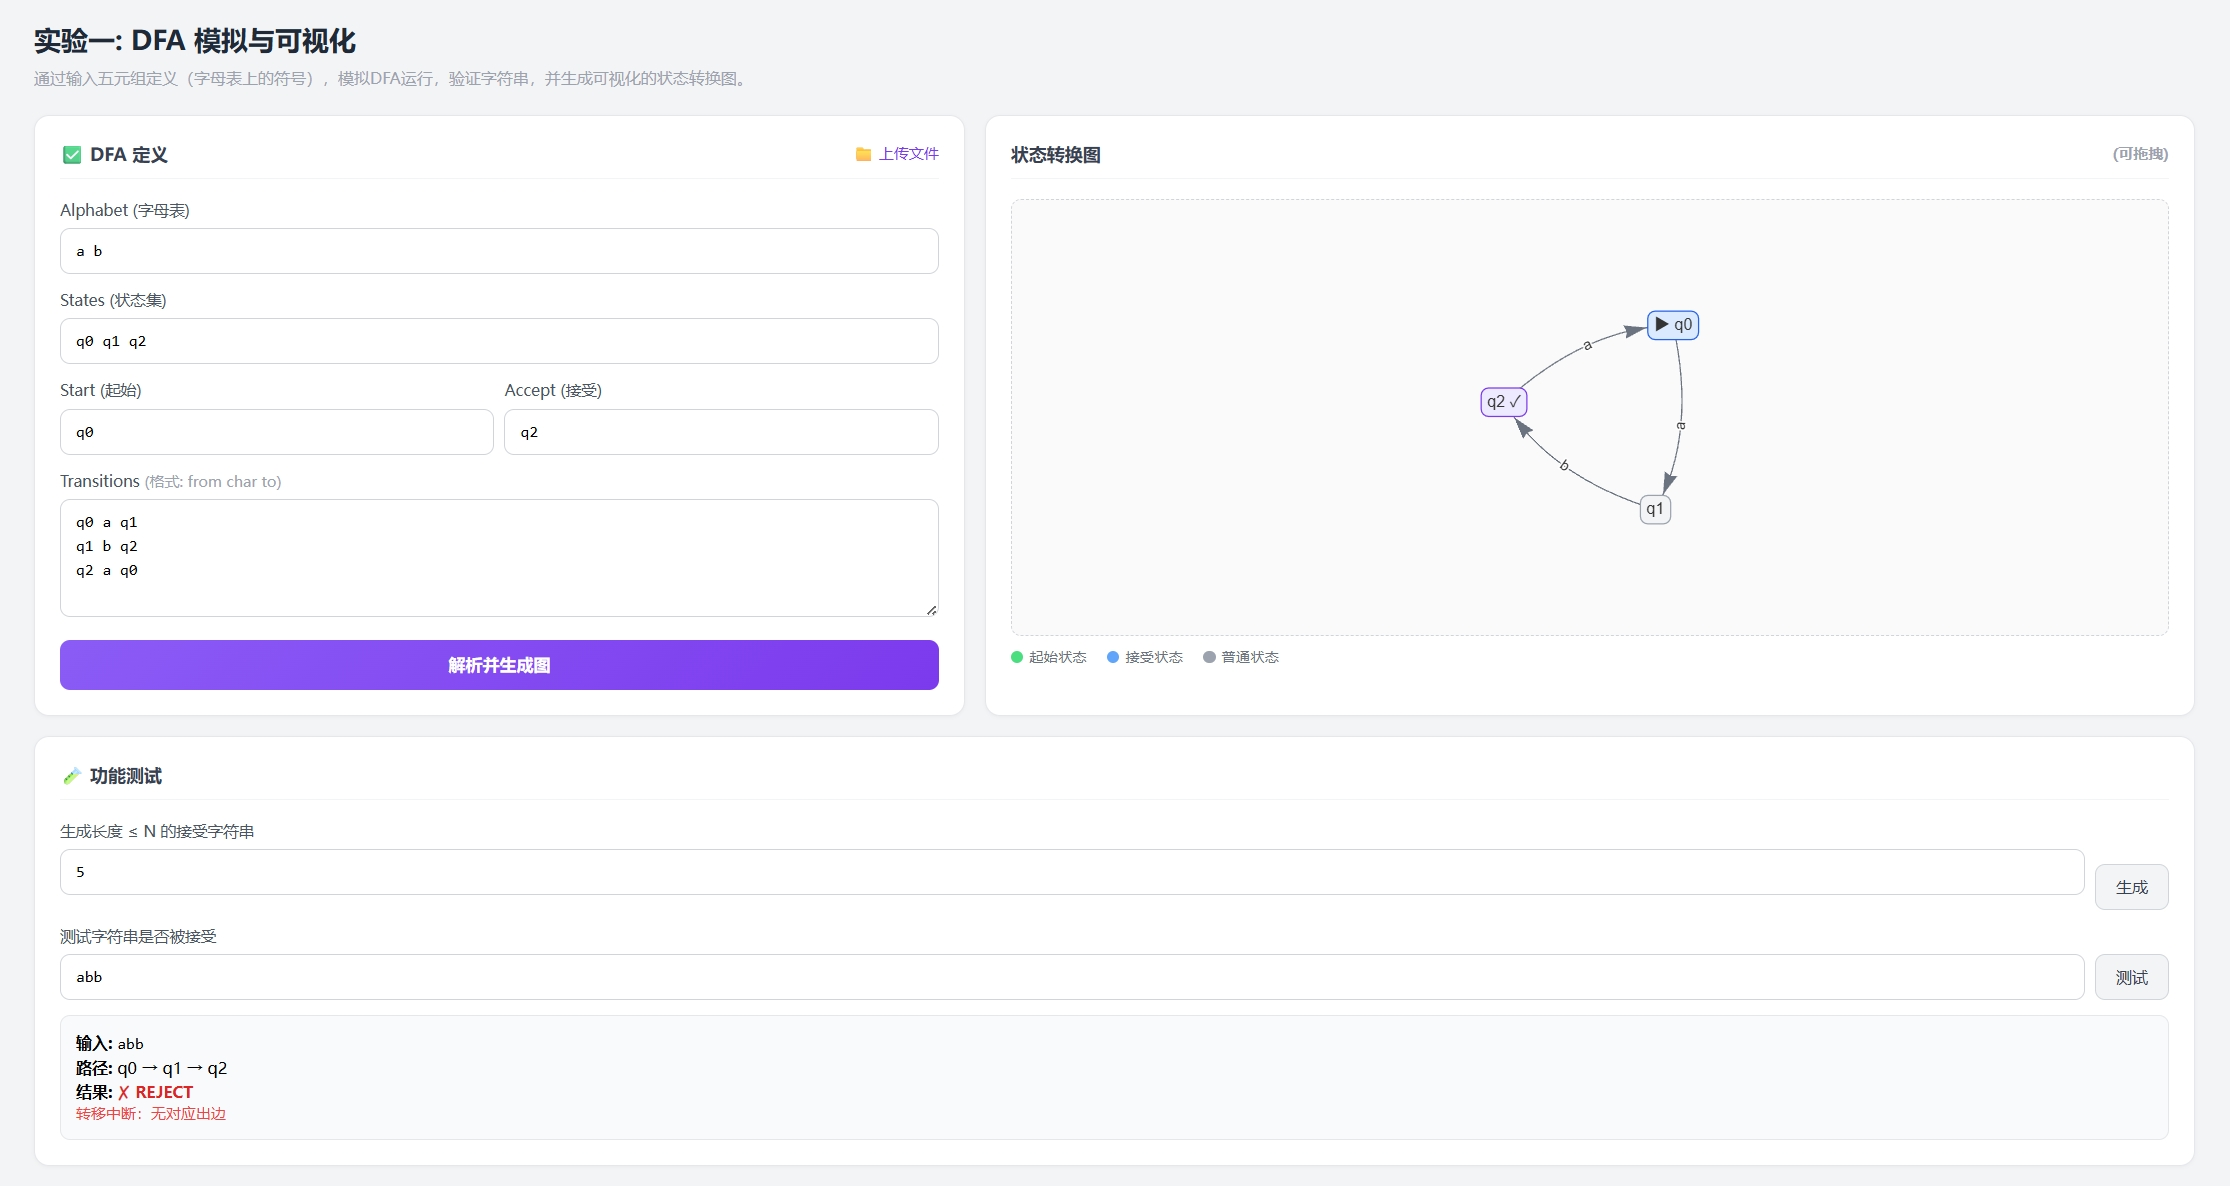
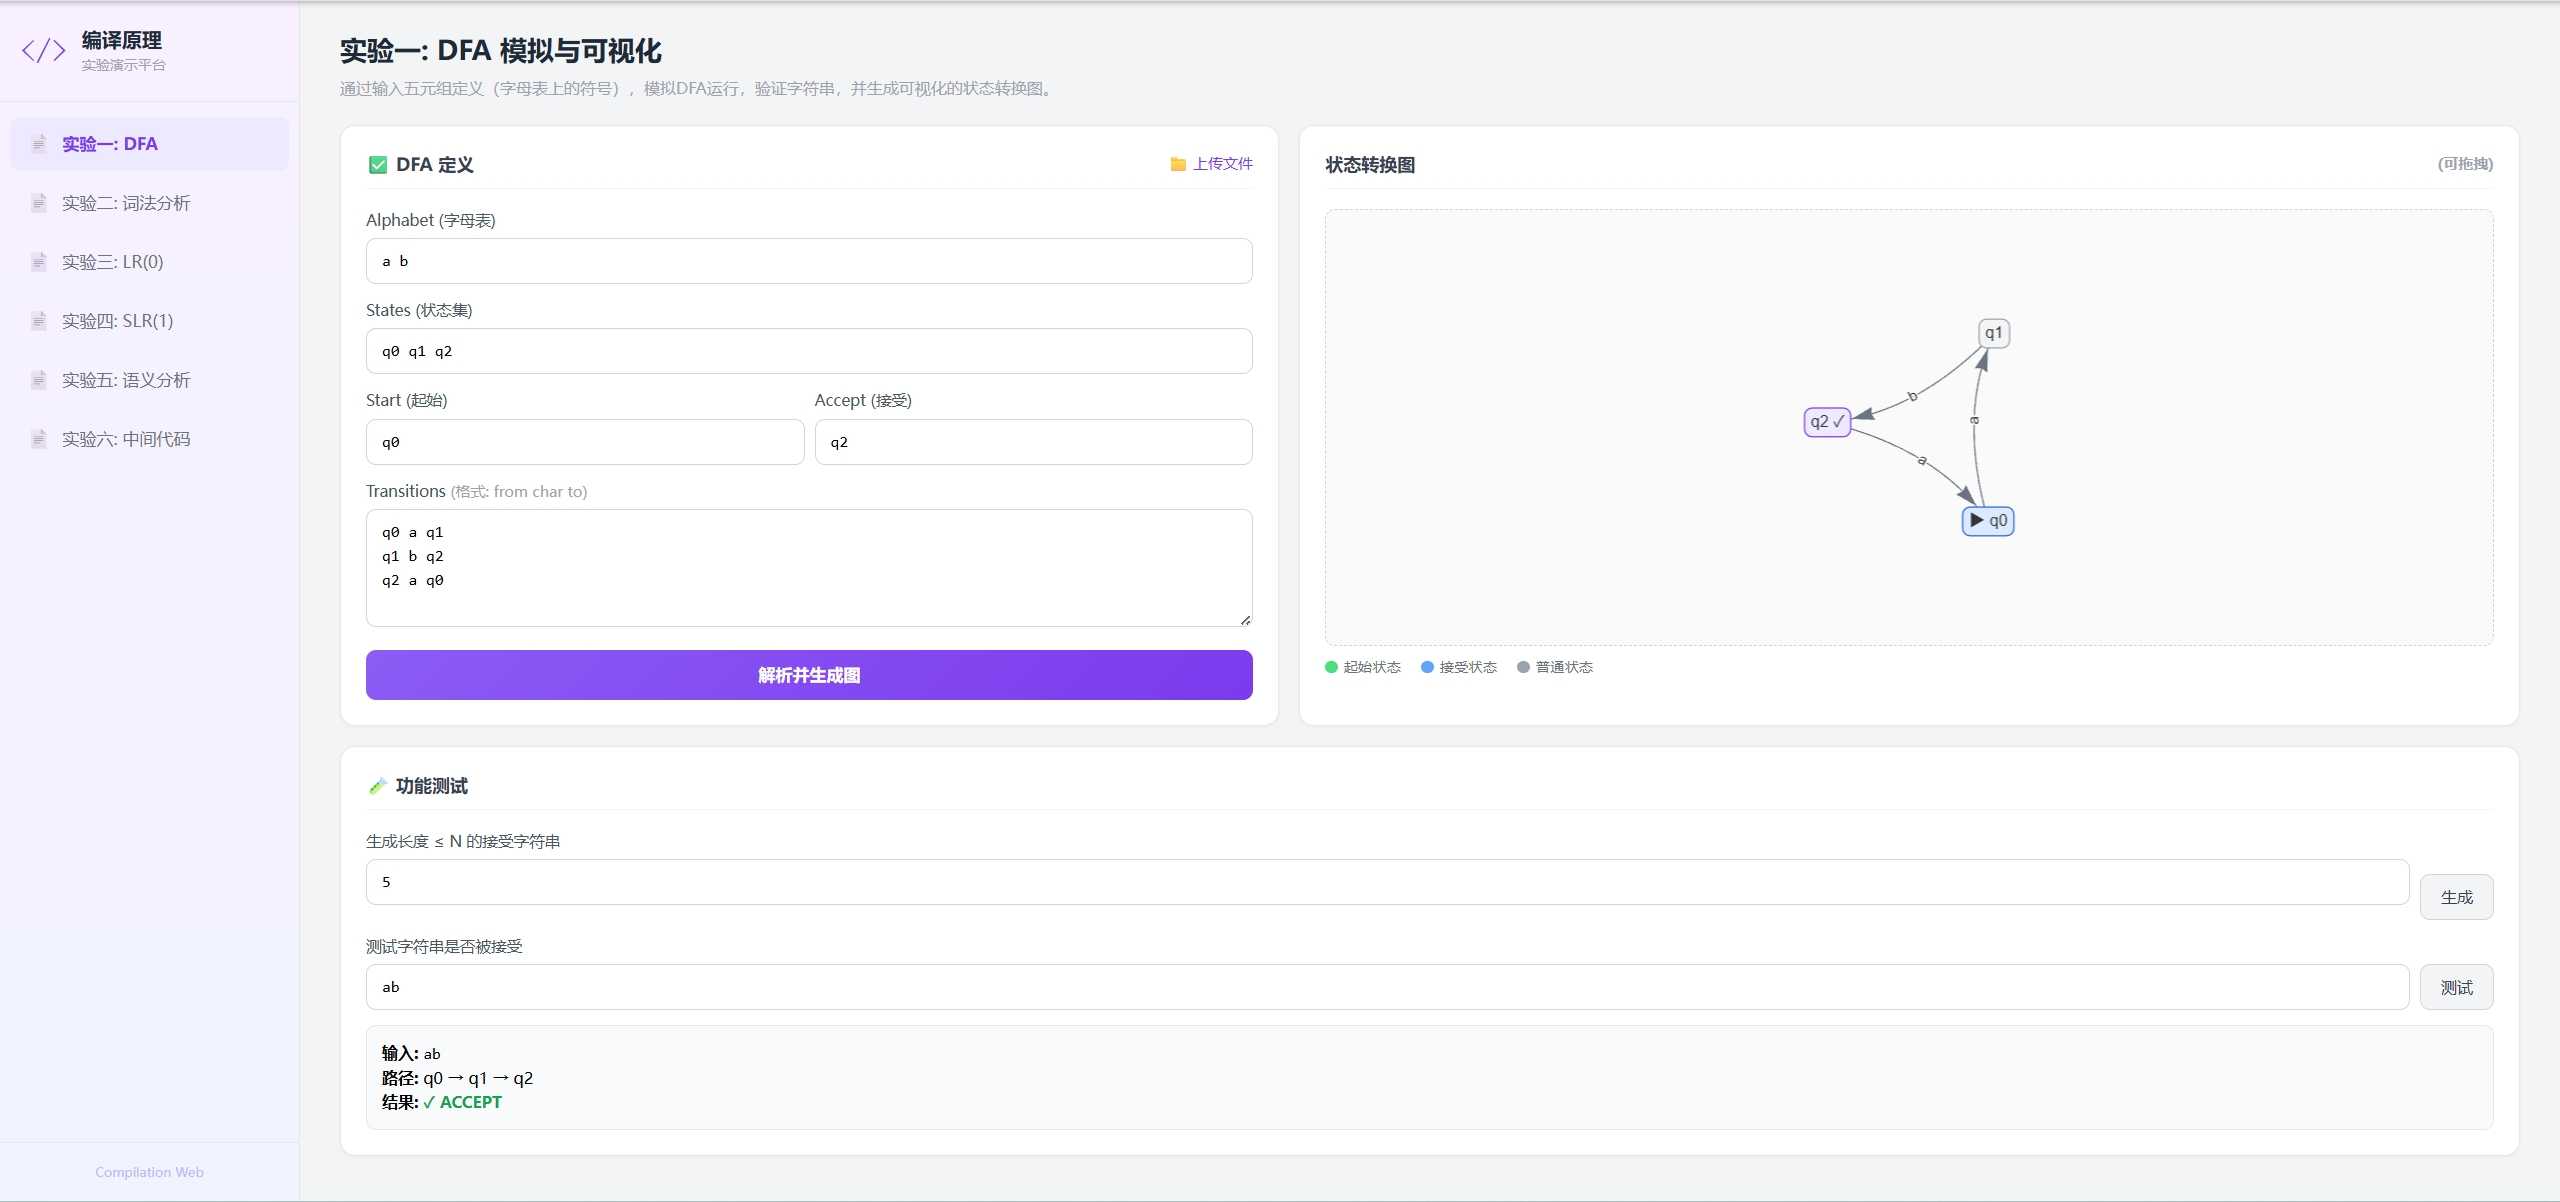
fix: 修复3个逻辑bug(DFA空字符串/Scanner统计/语义符号表)

diff --git a/compilation-web/js/scanner.js b/compilation-web/js/scanner.js
@@ -177,10 +177,11 @@ function renderScanner() {
 
     // 统计信息
     const stats = { keywords: 0, identifiers: 0, numbers: 0, operators: 0, delimiters: 0 };
+    const kwValues = new Set(['int','float','void','if','else','while','return','input','print']);
     for (const t of allTokens) {
-        if (['INT','FLOAT','VOID','IF','ELSE','WHILE','RETURN','INPUT','PRINT'].includes(t.type)) stats.keywords++;
+        if (kwValues.has(t.value)) stats.keywords++;
         else if (t.type === 'ID') stats.identifiers++;
-        else if (['NUM','FLOAT'].includes(t.type)) stats.numbers++;
+        else if (t.type === 'NUM' || (t.type === 'FLOAT' && !kwValues.has(t.value))) stats.numbers++;
         else if (['ADD','SUB','MUL','DIV','ASG','LSS','GTR','LEQ','GEQ','EQU','NEQ','AND','OR','NOT'].includes(t.type)) stats.operators++;
         else if (['LPAR','RPAR','LBK','RBK','LBR','RBR','CMA','SEMI'].includes(t.type)) stats.delimiters++;
     }
@@ -197,7 +198,7 @@ function renderScanner() {
     // 各类别详细列表
     sHtml += '<div style="margin-top:12px;font-size:0.8rem;color:#94a3b8">';
     const idSet = new Set(allTokens.filter(t => t.type === 'ID').map(t => t.value));
-    const numSet = new Set(allTokens.filter(t => t.type === 'NUM' || t.type === 'FLOAT').map(t => t.value));
+    const numSet = new Set(allTokens.filter(t => t.type === 'NUM' || (t.type === 'FLOAT' && !kwValues.has(t.value))).map(t => t.value));
     if (idSet.size > 0) sHtml += '<div><strong>标识符:</strong> ' + [...idSet].join(', ') + '</div>';
     if (numSet.size > 0) sHtml += '<div><strong>数字:</strong> ' + [...numSet].join(', ') + '</div>';
     sHtml += '</div>';

diff --git a/compilation-web/js/semantic.js b/compilation-web/js/semantic.js
@@ -69,12 +69,13 @@ function semLex(src) {
 // ===== Symbol Table =====
 function SemSymbolTable() {
     const scopes = [[]];
+    const allScopes = [scopes[0]]; // 保留所有作用域（含已弹出的）
     return {
-        pushScope() { scopes.push([]); },
+        pushScope() { const s = []; scopes.push(s); allScopes.push(s); },
         popScope() { if (scopes.length > 1) scopes.pop(); },
         insert(entry) {
             for (const e of scopes[scopes.length-1]) { if (e.name === entry.name) return false; }
-            scopes[scopes.length-1].push({...entry, scope: scopes.length-1});
+            scopes[scopes.length-1].push({...entry, scope: allScopes.indexOf(scopes[scopes.length-1])});
             return true;
         },
         lookup(name) {
@@ -82,7 +83,7 @@ function SemSymbolTable() {
                 for (const e of scopes[i]) if (e.name === name) return e;
             return null;
         },
-        getScopes() { return scopes; }
+        getScopes() { return allScopes; }
     };
 }
 

diff --git a/compilation-web/js/dfa.js b/compilation-web/js/dfa.js
@@ -101,7 +101,6 @@ function runDfa() {
 function testDfaString() {
     if (!currentDfa) { alert('请先解析DFA'); return; }
     const inputStr = document.getElementById('dfa-string').value;
-    if (!inputStr) return;
 
     const dfa = currentDfa;
     let cur = dfa.startState;
@@ -119,7 +118,7 @@ function testDfaString() {
     const div = document.getElementById('dfa-result');
     div.classList.remove('hidden');
     div.innerHTML = `
-        <p><strong>输入:</strong> <code>${inputStr}</code></p>
+        <p><strong>输入:</strong> <code>${inputStr || '(空字符串 ε)'}</code></p>
         <p><strong>路径:</strong> ${path.join(' → ')}</p>
         <p><strong>结果:</strong> <span class="${accepted ? 'result-accept' : 'result-reject'}">${accepted ? '✓ ACCEPT' : '✗ REJECT'}</span></p>
         ${!ok ? '<p class="text-red-500 text-xs">转移中断：无对应出边</p>' : ''}